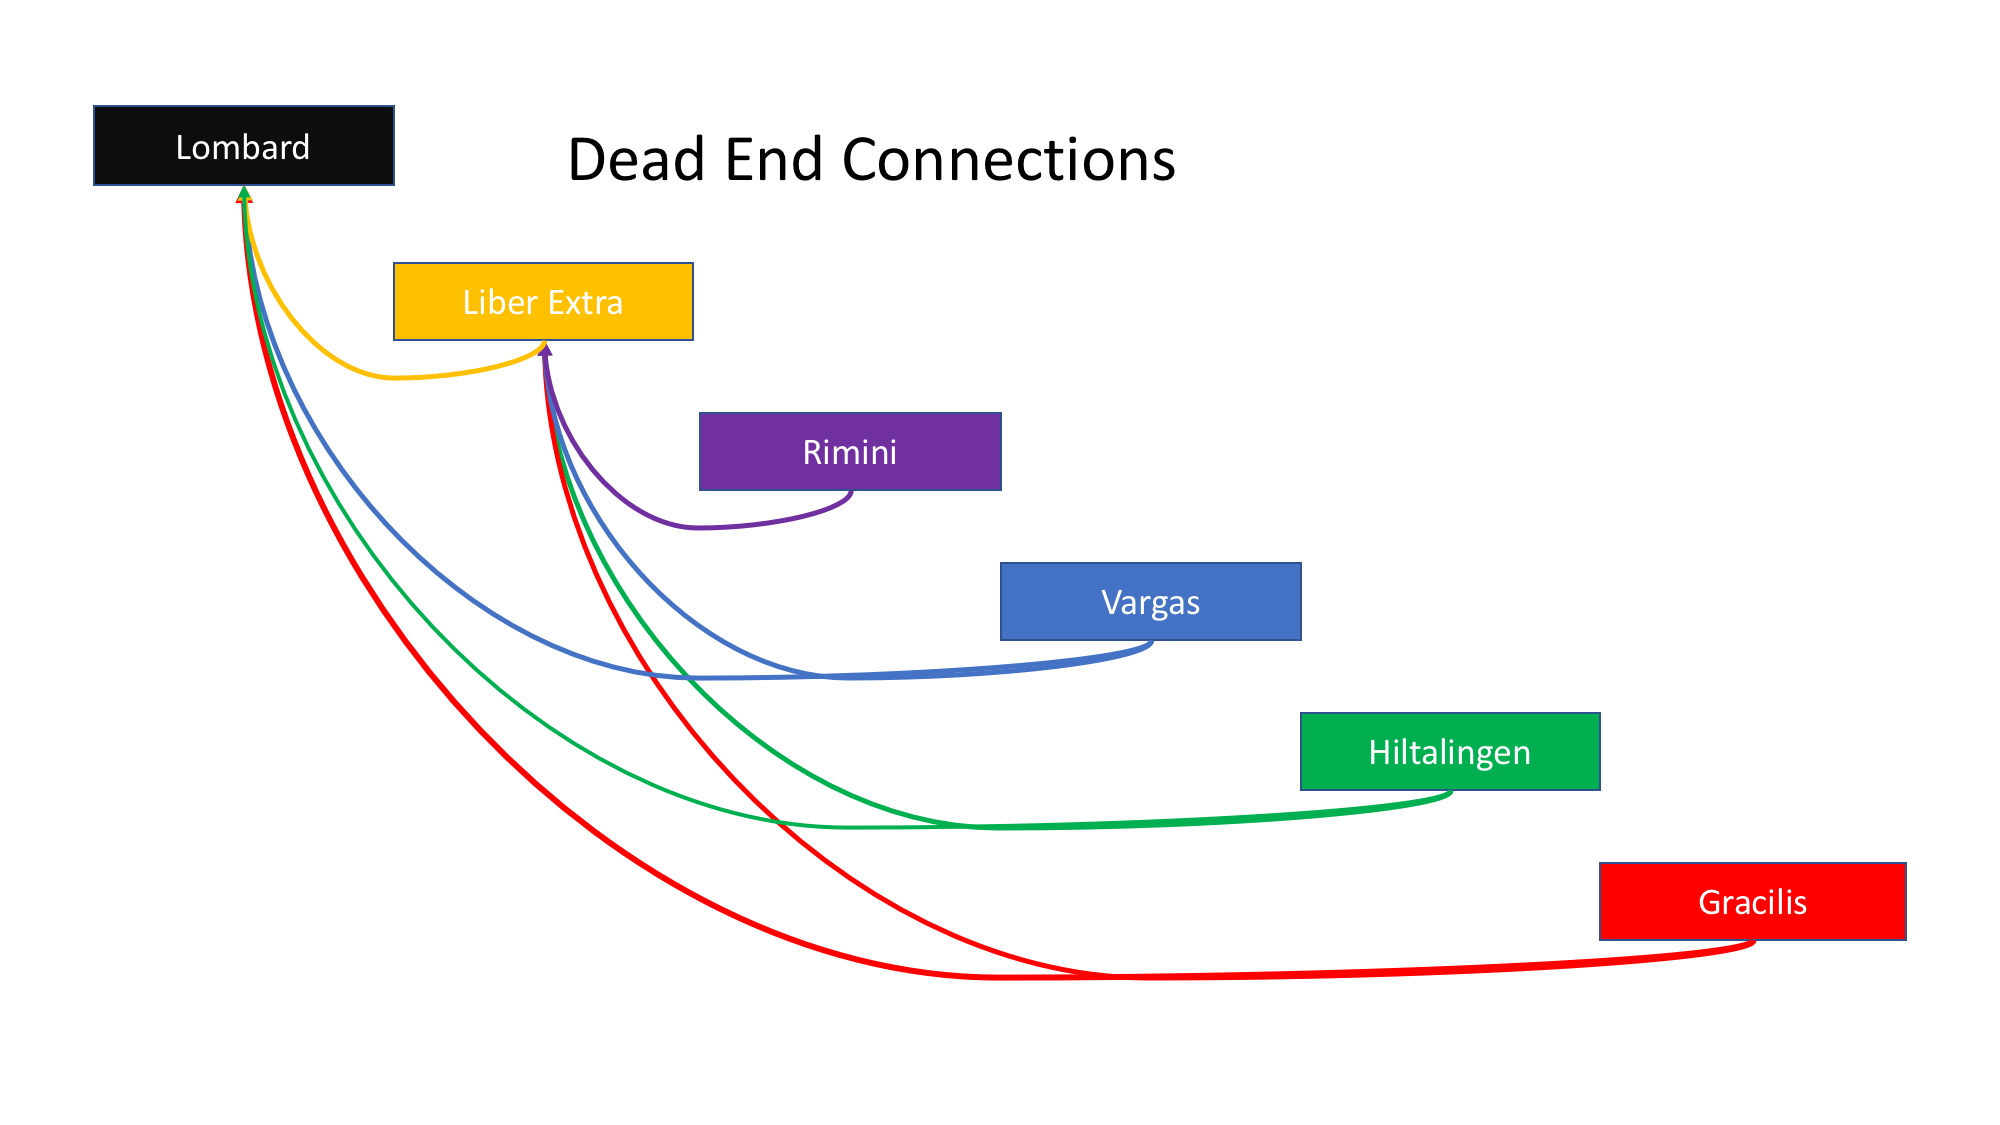
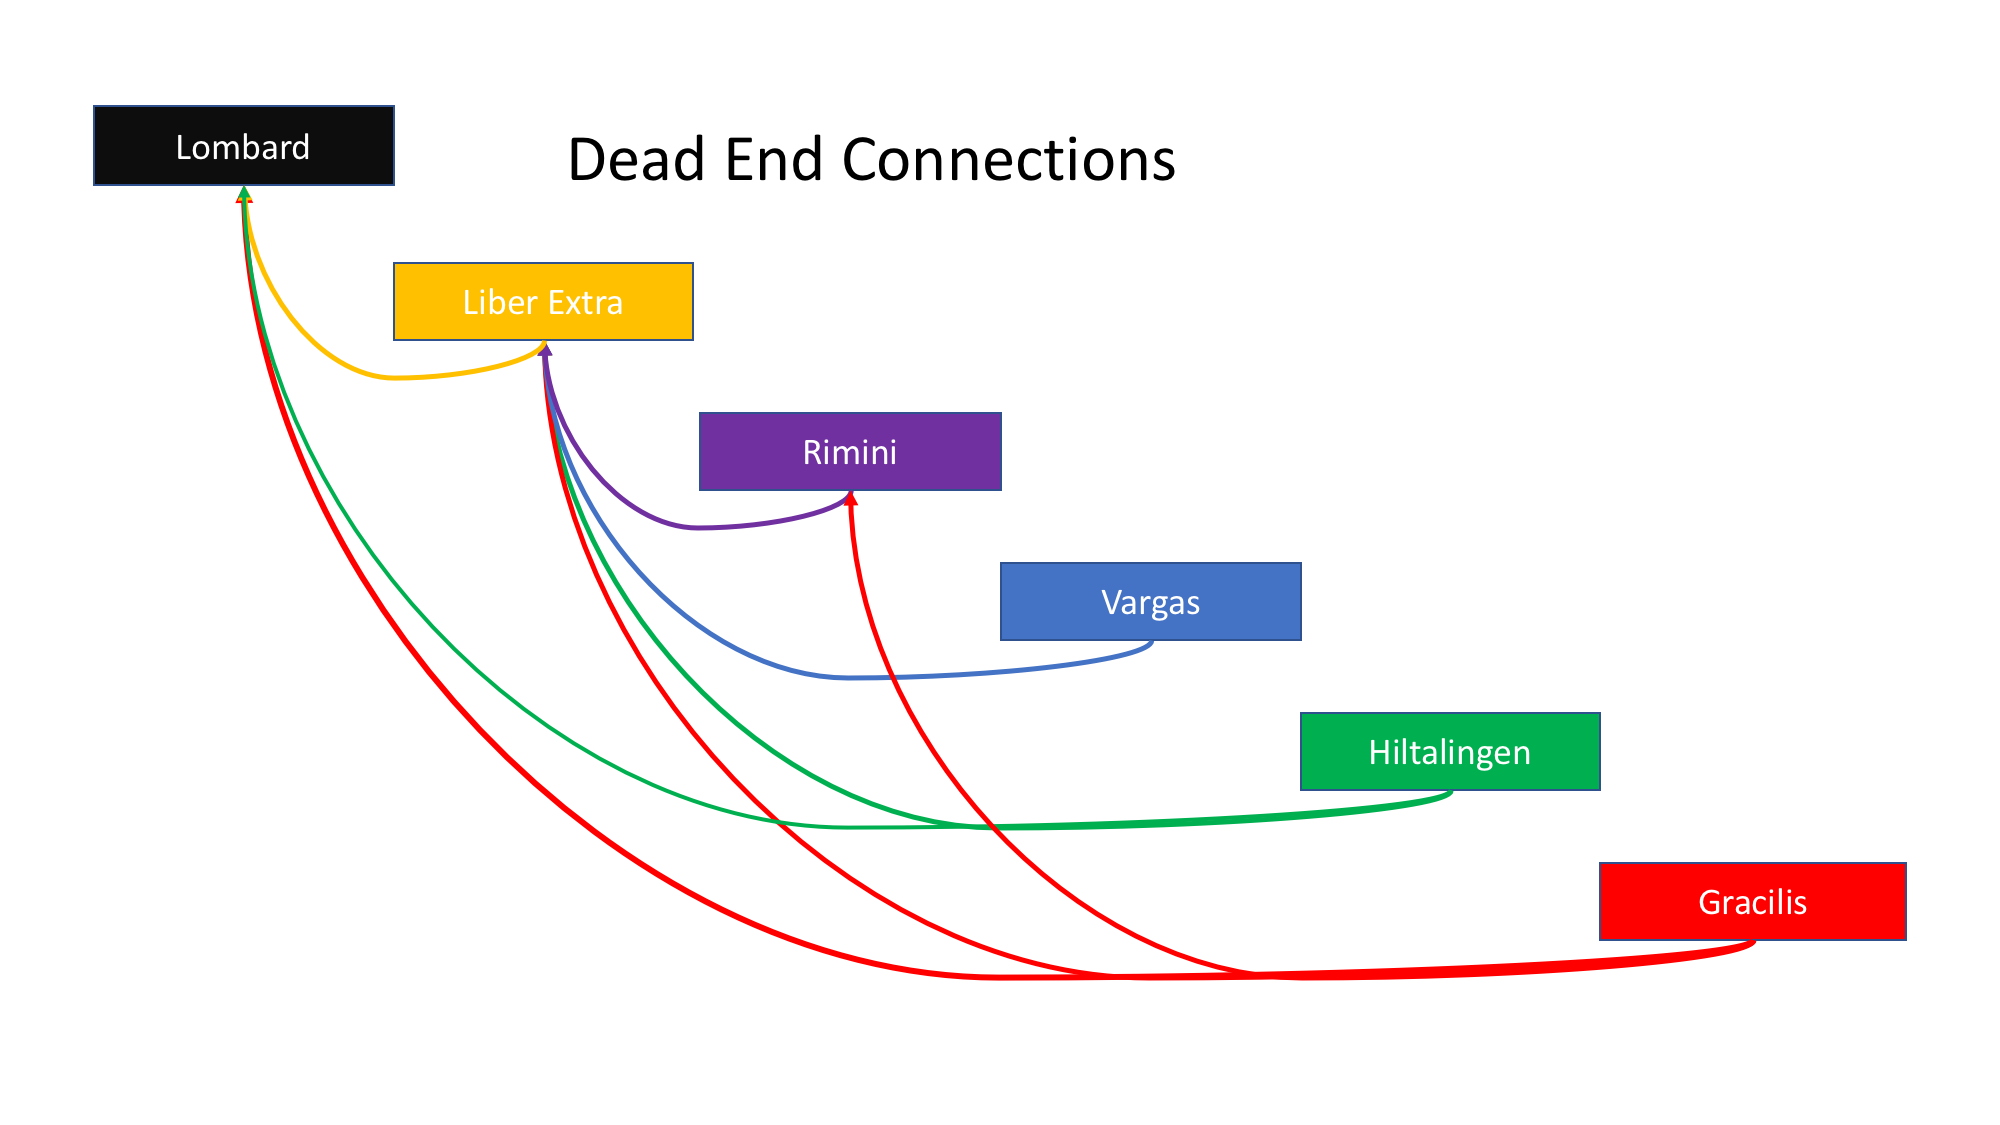
updated network pictures and added two more

diff --git a/slides/2017-08-31-los-andes-text-as-networks.html b/slides/2017-08-31-los-andes-text-as-networks.html
@@ -194,8 +194,17 @@ transition: slide
   <section>
     <img src="/assets/images/porto-slides/lbp-referencedBy.png"/>
   </section>
-  <section>
-    <img src="/assets/images/porto-slides/lbp-with-referenced-text-and-para-info.png"/>
+  <section data-markdown>
+    ### Recall: the promise of a "Networked Connections"
+    ![connections](/assets/images/dead-end-and-networked-connections4.png)
+  </section>
+  <section data-markdown>
+    #### Promise Fulfilled
+    ![connections](/assets/images/dead-end-and-networked-connections5.png)
+  </section>
+  <section data-markdown>
+    #### Promise Fulfilled
+    ![connections](/assets/images/dead-end-and-networked-connections6.png)
   </section>
 </section>
 <section>
